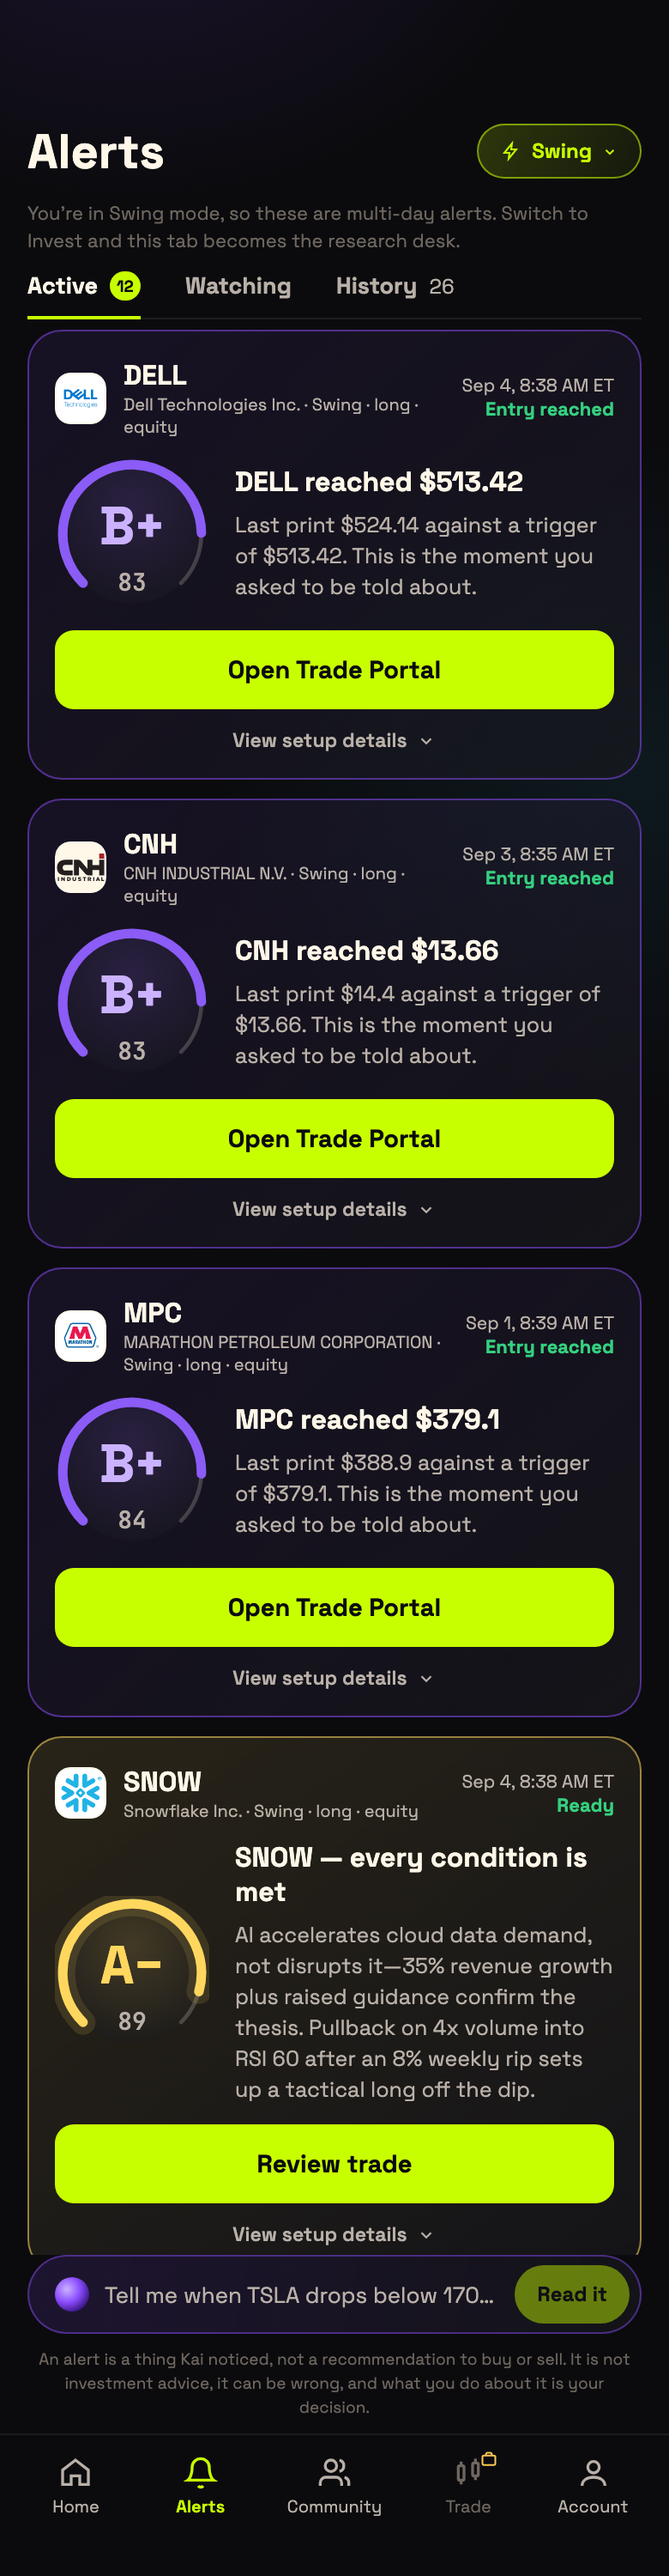
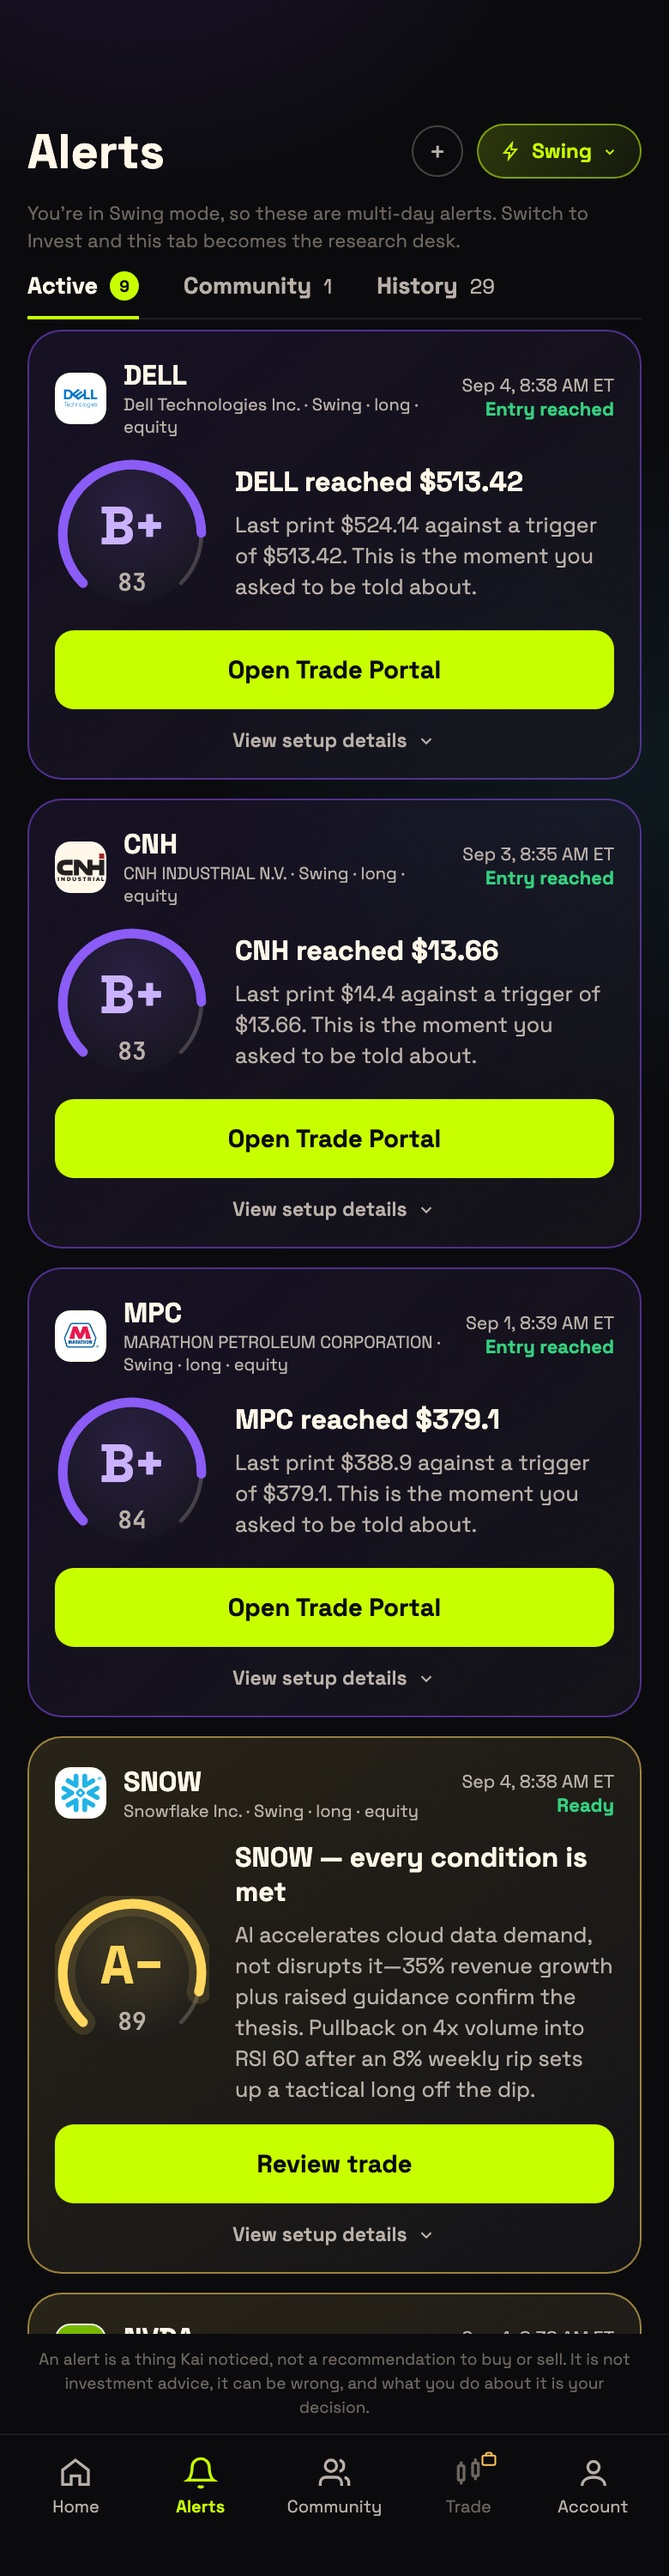
The mode is part of the question the alerts board asks
The owner switched to Day Trade and kept reading swing picks. The server was
already right — `scopeToMode` filters the board by the profile's mode and a
direct query returns day-trade rows — so nothing was wrong with the answer.
The app never asked again.

`useAlertsRound4` fetched on `[offline, seed, tab, tick]`. The mode was not in
that list and was not an argument to the hook at all, so changing it re-rendered
the header, redrew the chip, moved the Community list underneath (`useDeskCalls`
DOES key on mode) and left the alert cards exactly where they were. The board
only caught up if you happened to change tab, which is why this looked
intermittent rather than broken. The asymmetry was visible on one screen: half
of it moved and half of it did not.

Three things, and the third is the one that makes the other two hold:

  - `mode` is an argument and a dependency. The switch re-asks.
  - the held cards are cleared DURING RENDER, not in an effect. An effect runs
    after paint, so clearing there would show the old mode's cards for a frame
    on the new mode's board — the bug, briefly, dressed as the fix. The board's
    first paint after a switch is its loading state.
  - the server now says which mode it filtered by (`mode` on the payload, taken
    from the value that actually narrowed the rows) and the app refuses to draw
    a payload whose mode is not the mode on screen. A reply sent before the
[…]

diff --git a/apps/mobile/src/features/alerts/useAlerts.ts b/apps/mobile/src/features/alerts/useAlerts.ts
@@ -1,4 +1,4 @@
-import { useCallback, useEffect, useState } from 'react';
+import { useCallback, useEffect, useRef, useState } from 'react';
 import { api, ApiError } from '../../lib/api';
 import { useResource } from '../../lib/useResource';
 import {
@@ -8,7 +8,7 @@ import {
 import { mergeAlertsTab } from '../../lib/adapters';
 import type {
   AlertBoardTab, AlertDetail, AlertDraftPreview, AlertLifecycle, AlertMonitoring, AlertsRound4,
-  AlertsSimple, AlertTab,
+  AlertsSimple, AlertTab, GoalMode,
 } from '../../lib/types';
 
 /** GET /alerts, grouped into the five lifecycle sections. */
@@ -171,7 +171,7 @@ export function useAlertsSimple() {
  * a third meaning for a word the database already defines, for the sake of one
  * request. `history` still costs exactly one.
  */
-export function useAlertsRound4(fixture: 'default' | 'empty' = 'default') {
+export function useAlertsRound4(mode: GoalMode, fixture: 'default' | 'empty' = 'default') {
   const offline = !api.available();
   // Fixtures preview only — lets the owner and Playwright see the quiet day.
   const seed = fixture === 'empty' ? fixtureAlertsRound4Empty : fixtureAlertsRound4;
@@ -180,6 +180,33 @@ export function useAlertsRound4(fixture: 'default' | 'empty' = 'default') {
   const [loading, setLoading] = useState(!offline);
   const [error, setError] = useState<string | null>(null);
   const [tick, setTick] = useState(0);
+
+  /**
+   * THE MODE THE HELD CARDS ARE ABOUT, adjusted during render rather than in an
+   * effect.
+   *
+   * An effect runs AFTER the browser has painted, so clearing the old mode's
+   * cards there would show them for one frame on the new mode's board — which
+   * is the bug, briefly, rather than the fix. Setting state during render is
+   * React's own answer to "this state is stale for the props I was just given":
+   * it re-renders immediately, before anything is committed to the screen, so
+   * the day-trade board's first paint is a spinner and never a swing card.
+   */
+  const [shownMode, setShownMode] = useState<GoalMode>(mode);
+  if (shownMode !== mode) {
+    setShownMode(mode);
+    setData(offline ? seed : null);
+    setLoading(!offline);
+    setError(null);
+  }
+
+  /**
+   * REQUEST IDENTITY. `alive` alone says "a newer effect run exists"; it cannot
+   * say which mode the reply in hand is about, so it depends on the effect
+   * having re-run for the right reason. This ref is the fact itself: every
+   * request is stamped, and only the newest stamp may write.
+   */
+  const seqRef = useRef(0);
 
   /**
    * Which of the server's buckets this board tab needs. `community` needs none
@@ -193,10 +220,28 @@ export function useAlertsRound4(fixture: 'default' | 'empty' = 'default') {
     if (offline) { setData(seed); setLoading(false); return; }
     if (!wanted.length) { setLoading(false); return; }
     let alive = true;
+    const seq = ++seqRef.current;
     setLoading(true);
     Promise.all(wanted.map((t) => api.alertsRound4(t).then((incoming) => ({ t, incoming }))))
       .then((answers) => {
-        if (!alive) return;
+        if (!alive || seq !== seqRef.current) return;
+        /*
+         * THE SERVER SAYS WHICH BOARD IT ANSWERED, AND WE BELIEVE IT OVER THE
+         * ORDER THE PROMISES RESOLVED IN.
+         *
+         * `/alerts` is scoped by the profile row, not by anything in the
+         * request, so a reply sent before the mode changed is a perfectly valid
+         * answer to a question nobody is asking any more. `payload.mode` is the
+         * mode that actually filtered those rows; if it is not the mode on
+         * screen, the cards are dropped and the board stays on its loading
+         * state until the request that belongs to it comes back.
+         *
+         * A build that does not send the field yet answers `null`, which is
+         * read as "this server cannot tell me" — the stamp above is then the
+         * only guard, which is where this code already was.
+         */
+        const wrongMode = answers.find(({ incoming }) => incoming.mode && incoming.mode !== mode);
+        if (wrongMode) return;
         setData((prev) => answers.reduce(
           (acc: AlertsRound4 | null, { t, incoming }) => (acc ? mergeAlertsTab(acc, incoming, t) : incoming),
           prev,
@@ -204,19 +249,34 @@ export function useAlertsRound4(fixture: 'default' | 'empty' = 'default') {
         setError(null);
       })
       .catch((e: unknown) => {
-        if (!alive) return;
+        if (!alive || seq !== seqRef.current) return;
         setError(e instanceof ApiError && e.code === 'NOT_FOUND'
           ? "That part of the service isn't live yet."
           : e instanceof Error ? e.message : 'Something went wrong. Please try again.');
       })
-      .finally(() => { if (alive) setLoading(false); });
+      .finally(() => { if (alive && seq === seqRef.current) setLoading(false); });
     return () => { alive = false; };
     // `wanted` is derived from `tab` and rebuilt every render; `tab` is the dep.
+    // `mode` is a dep because the board is ONE MODE'S BOARD and the server
+    // scopes it by the profile — switching the mode has to re-ask, and before
+    // this line it did not, which is how a day trader read a list of swing
+    // picks until he changed tab.
     // eslint-disable-next-line react-hooks/exhaustive-deps
-  }, [offline, seed, tab, tick]);
+  }, [offline, seed, tab, tick, mode]);
+
+  /**
+   * NEVER HAND BACK THE OTHER MODE'S CARDS. Every path above already refuses to
+   * store them, and this is the line that makes that a property of the hook
+   * instead of a property of five correct branches: if what is held is not
+   * about the mode being displayed, the board is given nothing and draws its
+   * loading state.
+   */
+  const forShownMode = data && (!data.mode || data.mode === mode) ? data : null;
 
   return {
-    data, loading, error, tab, setTab,
+    data: forShownMode,
+    loading: loading || (!!data && !forShownMode),
+    error, tab, setTab,
     isFixture: offline,
     reload: () => setTick((t) => t + 1),
   };

diff --git a/apps/api/src/app/api/v1/alerts/route.ts b/apps/api/src/app/api/v1/alerts/route.ts
@@ -182,6 +182,13 @@ export const GET = authed(async (req: NextRequest, ctx: Ctx) => {
         plain: TAB_PLAIN[key],
       })),
       cards,
+      // WHICH BOARD THIS IS. `feed.mode` is the value that narrowed the rows a
+      // few lines above, not a second read of the profile, so the label on the
+      // answer and the filter behind it cannot disagree. The app refuses to
+      // draw a payload whose mode is not the mode it is showing, which is what
+      // stops a swing reply that arrives late from landing on a Day Trade
+      // board — see `useAlertsRound4`.
+      mode: feed.mode,
       // An empty Active tab is not a broken screen, and in Day Trade it is not
       // even unusual: the options-flow engine is a selective filter that only
       // finds something it is willing to send on a minority of sessions, so
@@ -192,7 +199,7 @@ export const GET = authed(async (req: NextRequest, ctx: Ctx) => {
       // the app.
       card_empty_copy:
         tab === 'active'
-          ? profile.primary_mode === 'day_trade'
+          ? feed.mode === 'day_trade'
             ? 'No day-trade alerts today. The engine watches the tape from the opening bell.'
             : 'Nothing needs a decision right now. That is a real answer, not an empty screen.'
           : tab === 'watching'

diff --git a/apps/api/src/lib/round4/alerts-feed.ts b/apps/api/src/lib/round4/alerts-feed.ts
@@ -118,6 +118,16 @@ export type FeedResult = {
   counts: Record<AlertTab, number>;
   degraded: boolean;
   degraded_reason: string | null;
+  /**
+   * The mode this feed was read in — reported whether or not `scopeToMode` was
+   * on, because it is the mode the caller would have been filtered by and a
+   * caller that did not filter still wants to say which board it is answering.
+   *
+   * It is returned rather than re-read by the caller so the answer cannot drift
+   * from the filter: whoever echoes this to the app is echoing the value that
+   * actually narrowed the rows, not a second read of the same column.
+   */
+  mode: AppMode;
 };
 
 /**
@@ -552,6 +562,7 @@ export async function loadAlertCards(opts: {
     counts,
     degraded: snap.degraded || positions.degraded,
     degraded_reason: snap.degraded_reason ?? positions.degraded_reason,
+    mode,
   };
 }
 

diff --git a/apps/mobile/src/lib/types.ts b/apps/mobile/src/lib/types.ts
@@ -970,6 +970,17 @@ export type AlertsRound4 = {
   history: AlertCard[];
   counts: { active: number; watching: number; history: number };
   empty_copy?: string | null;
+  /**
+   * WHICH MODE'S BOARD THESE CARDS ARE — sent by the server, which is the half
+   * that filtered them.
+   *
+   * The board is one mode's board and the mode can change while a request is
+   * out. This field is how a payload says which question it answered, so a
+   * reply about swing cannot be drawn on a Day Trade board just because it
+   * arrived second. Null on an older API build, which the hook reads as "this
+   * build cannot tell me" and falls back to the mode it asked in.
+   */
+  mode?: GoalMode | null;
 };
 
 /** Conversations drawer (prototype "Home" board). */
